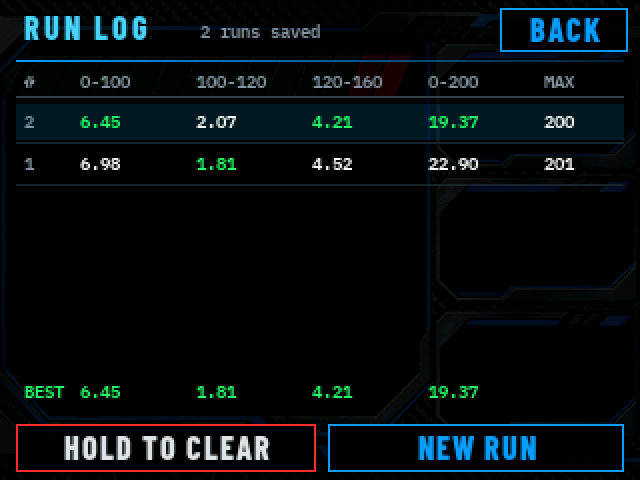
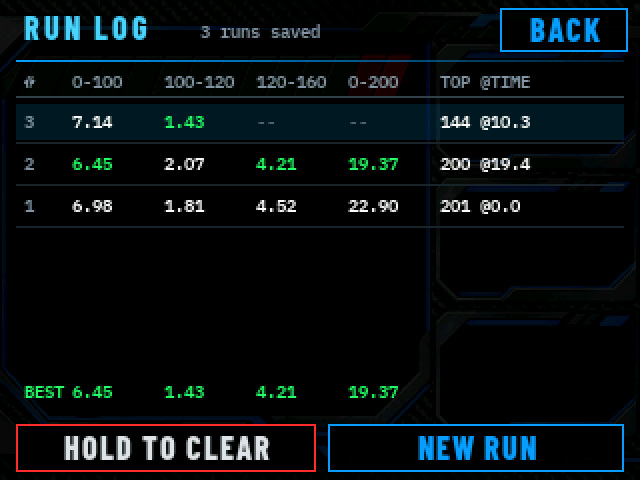
feat: timer logs every run past 30 km/h; noinvert-dim image (v1.5.0)
A run that ends before 200 km/h is saved with its top speed, the time to reach
it and the splits it passed (shown big on the SAVED screen; log column
TOP @TIME; timerlog adds to_max_s). Runs under 30 km/h are skipped. The log
record grew, so a 1.4.0 log is dropped once.
New cyd-noinvert-dim env / noinvert-dim release image (normal colours +
BRIGHTNESS); the flasher and docs list it.

diff --git a/src/ui/timer_ui.cpp b/src/ui/timer_ui.cpp
@@ -196,7 +196,7 @@ void render(const DragTimer &t, const RunLog &log, uint32_t now, bool speedValid
         case TS_RUN:      stateText = "RUN"; stateColor = T.good; break;
         case TS_FINISH:   stateText = "FINISH"; stateColor = T.good; break;
         case TS_SAVED:    stateText = "SAVED"; stateColor = T.good; break;
-        case TS_NO_RESULT:stateText = "NO 100"; stateColor = T.warning; break;
+        case TS_NO_RESULT:stateText = "TOO SHORT"; stateColor = T.warning; break;
     }
     drawStatus(stateText, stateColor);
 
@@ -212,9 +212,13 @@ void render(const DragTimer &t, const RunLog &log, uint32_t now, bool speedValid
         snprintf(label, sizeof label, "0-200 KM/H");
         bigColor = T.good;
         if (t.newBest(SEG_0_200)) tag = "NEW BEST";
-    } else if (st == TS_SAVED || st == TS_NO_RESULT) {
+    } else if (st == TS_SAVED) {                         // didn't reach 200: time to its top speed
+        fmtSec(num, sizeof num, t.toMax());
+        snprintf(label, sizeof label, "0-%d KM/H  (TOP SPEED)", (int)lroundf(t.maxKmh()));
+        bigColor = 0xffffff;
+    } else if (st == TS_NO_RESULT) {
         fmtSec(num, sizeof num, -1);
-        snprintf(label, sizeof label, "0-200 KM/H  (MAX %d)", (int)lroundf(t.maxKmh()));
+        snprintf(label, sizeof label, "UNDER 30 KM/H - NOT LOGGED");
         bigColor = C_DIM;
     } else {
         snprintf(num, sizeof num, "0.00");
@@ -289,8 +293,8 @@ static void composeLog(const RunLog &log, float clearHold) {
     button(L_BACK, "BACK", T.accent, true);
     for (int x = 8; x < 312; x++) c.blendPixel(x, 30, C(T.accent), (uint8_t)(255 - (x - 8) * 200 / 304));
 
-    static const int cx[6] = { 12, 40, 98, 156, 214, 272 };
-    static const char *const hdr[6] = { "#", "0-100", "100-120", "120-160", "0-200", "MAX" };
+    static const int cx[6] = { 12, 36, 82, 128, 174, 220 };
+    static const char *const hdr[6] = { "#", "0-100", "100-120", "120-160", "0-200", "TOP @TIME" };
     static const Seg cols[4] = { SEG_0_100, SEG_100_120, SEG_120_160, SEG_0_200 };
     for (int k = 0; k < 6; k++) c.text(font_small, cx[k], 44, hdr[k], C(C_MUTED));
     c.fillRect(8, 48, 304, 1, C(C_EDGE));
@@ -311,7 +315,7 @@ static void composeLog(const RunLog &log, float clearHold) {
             uint32_t col = v == RUN_NONE ? C_DIM : v == best[k] ? T.good : 0xffffff;
             c.text(font_small, cx[k + 1], y, buf, C(col));
         }
-        snprintf(buf, sizeof buf, "%u", rec.maxKmh);
+        snprintf(buf, sizeof buf, "%u @%u.%01u", rec.maxKmh, rec.toMaxCs / 100, rec.toMaxCs % 100 / 10);
         c.text(font_small, cx[5], y, buf, C(0xffffff));
         c.fillRect(8, y + 7, 304, 1, C(0x1c252d));
     }

diff --git a/src/ui/drag_timer.h b/src/ui/drag_timer.h
@@ -7,7 +7,9 @@
 //   STAGED -> speed leaves 0               -> RUN (start time back-estimated from the
 //                                             first two moving samples)
 //   RUN   -> 200 km/h                      -> FINISH
-//   RUN   -> speed drops 10 below its max  -> SAVED (if 0-100 was done) / NO RESULT
+//   RUN   -> speed drops 10 below its max  -> SAVED with whatever it reached (top speed +
+//                                             time to it, and every split passed); runs that
+//                                             never got past 30 km/h are not logged
 //   result -> stopped for 3 s, or again()  -> STAGED for the next run
 // Each threshold crossing is interpolated between the two samples around it, so the
 // times are better than the sample rate (OBD speed is integer km/h at ~5-10 Hz).
@@ -20,12 +22,13 @@ struct RunRecord {
     uint16_t seq;                 // run number, 1..
     uint16_t cs[SEG_COUNT];       // segment times in 1/100 s, RUN_NONE = not reached
     uint16_t maxKmh;
+    uint16_t toMaxCs;             // time from launch to the top speed, 1/100 s
 };
 
 // Newest-first ring of saved runs. Plain data: main.cpp stores it as one NVS blob.
 struct RunLog {
     static const int kMax = 20;
-    uint8_t   version = 1;
+    uint8_t   version = 2;        // bump when RunRecord changes (an old log is then dropped)
     uint8_t   count = 0;
     uint16_t  nextSeq = 1;
     RunRecord runs[kMax];
@@ -58,6 +61,7 @@ public:
     bool  newBest(int seg) const { return newBest_[seg]; }
     float speed() const { return lastV_; }
     float maxKmh() const { return maxV_; }
+    float toMax() const { return (float)((maxT_ - start_) / 1000.0); }   // s, launch -> top speed
     const RunRecord &record() const { return rec_; }
 
 private:
@@ -73,6 +77,7 @@ private:
     double   cross_[kThresholds] = {};
     bool     crossed_[kThresholds] = {};
     float    maxV_ = 0;
+    double   maxT_ = 0;                         // when the top speed was reached
     bool     newBest_[SEG_COUNT] = {};
     RunRecord rec_ = {};
 

diff --git a/src/ui/drag_timer.cpp b/src/ui/drag_timer.cpp
@@ -13,6 +13,7 @@ static const float kStillKmh   = 1.0f;     // below this the car counts as stopp
 static const float kArmMs      = 1000;     // stopped this long -> STAGED
 static const float kRearmMs    = 3000;     // after a result: stopped this long -> next run
 static const float kLiftKmh    = 10;       // speed this far under the run's max ends it
+static const float kMinLogKmh  = 30;       // a run must get past this to be logged
 
 // ---- log -------------------------------------------------------------------------------
 void RunLog::add(RunRecord r) {
@@ -95,7 +96,7 @@ float DragTimer::elapsed(uint32_t now) const {
 }
 
 TimerEvent DragTimer::end(const RunLog &log) {
-    if (!crossed_[0]) { state_ = TS_NO_RESULT; stillSince_ = -1; return TE_DISCARD; }
+    if (maxV_ < kMinLogKmh) { state_ = TS_NO_RESULT; stillSince_ = -1; return TE_DISCARD; }
     rec_ = {};
     for (int s = 0; s < SEG_COUNT; s++) {
         rec_.cs[s] = RUN_NONE;
@@ -105,6 +106,8 @@ TimerEvent DragTimer::end(const RunLog &log) {
         newBest_[s] = rec_.cs[s] < log.best(s);
     }
     rec_.maxKmh = (uint16_t)lroundf(maxV_);
+    double toMax = (maxT_ - start_) / 10.0;
+    rec_.toMaxCs = toMax < 0 ? 0 : toMax > 65000 ? 65000 : (uint16_t)lround(toMax);
     stillSince_ = -1;
     state_ = crossed_[3] ? TS_FINISH : TS_SAVED;
     return state_ == TS_FINISH ? TE_FINISH : TE_SAVED;
@@ -162,7 +165,7 @@ TimerEvent DragTimer::update(float v, uint32_t stamp, uint32_t now, const RunLog
                 crossed_[i] = true;
                 ev = TE_SPLIT;
             }
-        if (v > maxV_) maxV_ = v;
+        if (v > maxV_) { maxV_ = v; maxT_ = t; }
         if (crossed_[3]) ev = end(log);
         else if (v < maxV_ - kLiftKmh || v < kStillKmh) ev = end(log);
         break;

diff --git a/src/main.cpp b/src/main.cpp
@@ -333,14 +333,14 @@ static void printRunLog() {
     static const char *const names[SEG_COUNT] = { "0-100", "100-120", "120-160", "0-200", "160-200" };
     Serial.printf("run");
     for (const char *n : names) Serial.printf(",%s", n);
-    Serial.println(",max_kmh");
+    Serial.println(",max_kmh,to_max_s");
     for (int i = runLog.count - 1; i >= 0; i--) {             // oldest first, like a spreadsheet
         const RunRecord &r = runLog.runs[i];
         Serial.printf("%u", r.seq);
         for (int s = 0; s < SEG_COUNT; s++)
             if (r.cs[s] == RUN_NONE) Serial.print(",");
             else Serial.printf(",%u.%02u", r.cs[s] / 100, r.cs[s] % 100);
-        Serial.printf(",%u\n", r.maxKmh);
+        Serial.printf(",%u,%u.%02u\n", r.maxKmh, r.toMaxCs / 100, r.toMaxCs % 100);
     }
 }
 
@@ -637,10 +637,11 @@ void loop() {
                 saveRunLog();
                 beep(best ? 3400 : 2600, best ? 400 : 200);
                 const RunRecord &r = runLog.runs[0];
-                Serial.printf("[timer] run %u saved: 0-100 %s  0-200 %s  max %u km/h%s\n", r.seq,
+                Serial.printf("[timer] run %u saved: top %u km/h in %u.%02u s, 0-100 %s, 0-200 %s%s\n", r.seq,
+                              r.maxKmh, r.toMaxCs / 100, r.toMaxCs % 100,
                               r.cs[SEG_0_100] == RUN_NONE ? "--" : String(r.cs[SEG_0_100] / 100.0f, 2).c_str(),
                               r.cs[SEG_0_200] == RUN_NONE ? "--" : String(r.cs[SEG_0_200] / 100.0f, 2).c_str(),
-                              r.maxKmh, best ? "  NEW BEST" : "");
+                              best ? "  NEW BEST" : "");
                 break;
             }
             case TE_DISCARD: beep(900, 150); break;

diff --git a/test/test_native/test_main.cpp b/test/test_native/test_main.cpp
@@ -362,10 +362,18 @@ static void test_drag_timer_lift_and_arming() {
     // stop for 3 s: armed again
     for (int i = 0; i < 16; i++) d.feed(0);
     TEST_ASSERT_EQUAL(TS_STAGED, d.t.state());
-    // short run that never reaches 100: no result
+    // short run that never reaches 100: still logged with its top speed
     v = 0;
     while (v < 60) { v += 4; d.feed(v); }
-    TEST_ASSERT_EQUAL(TE_DISCARD, d.feed(40));
+    TEST_ASSERT_EQUAL(TE_SAVED, d.feed(40));
+    TEST_ASSERT_EQUAL(TS_SAVED, d.t.state());
+    TEST_ASSERT_EQUAL_UINT16(60, d.t.record().maxKmh);
+    TEST_ASSERT_UINT16_WITHIN(5, 300, d.t.record().toMaxCs);        // 15 samples x 0.2 s
+    TEST_ASSERT_EQUAL_UINT16(RUN_NONE, d.t.record().cs[SEG_0_100]);
+    // creeping forward under 30 km/h: not logged
+    for (int i = 0; i < 16; i++) d.feed(0);
+    d.feed(10); d.feed(20);
+    TEST_ASSERT_EQUAL(TE_DISCARD, d.feed(5));
     TEST_ASSERT_EQUAL(TS_NO_RESULT, d.t.state());
     // speed data disappears mid-run: run ends
     for (int i = 0; i < 16; i++) d.feed(0);

diff --git a/tools/flasher/redline_flasher.py b/tools/flasher/redline_flasher.py
@@ -27,6 +27,7 @@ VARIANTS = {
     "invert": "Most CYD boards (start here)",
     "noinvert": "Colours look inverted / white background with 'invert'",
     "invert-dim": "Like invert, with BRIGHTNESS control (backlight that dims)",
+    "noinvert-dim": "Like noinvert, with BRIGHTNESS control",
 }
 MODES = {
     "factory": ("0x0", "First install - erases settings and run log"),
@@ -166,7 +167,7 @@ def cli(a):
             rel = rels[pick("Version", [r["tag_name"] for r in rels])]
         asset = asset_for(rel, variant, mode)
         if not asset:
-            sys.exit(f"{rel['tag_name']} has no '{variant}' image (invert-dim exists from v1.3.0).")
+            sys.exit(f"{rel['tag_name']} has no '{variant}' image (invert-dim exists from v1.3.0, noinvert-dim from v1.4.1).")
         path = download(asset["browser_download_url"], log)
 
     print(f"\nFlash {os.path.basename(path)} to {port} at {MODES[mode][0]}.")

diff --git a/tools/host_preview/preview.cpp b/tools/host_preview/preview.cpp
@@ -95,6 +95,12 @@ static void timerFrames() {
     }
     shot("out/timer_finish.ppm");
     log.add(t.record());
+    for (int i = 0; i < 40; i++) { ms += 100; t.update(0, ms, ms, log); }   // stop: re-arms
+    v = 0;
+    while (v < 143) { ms += 100; v += 1.4f; t.update(v, ms, ms, log); }    // lift at ~143
+    ms += 100; t.update(128, ms, ms, log);
+    shot("out/timer_saved.ppm");
+    log.add(t.record());
     timer_ui::drawLog(log);
     save("out/timer_log.ppm");
 }

diff --git a/src/config.h b/src/config.h
@@ -1,5 +1,5 @@
 #pragma once
-#define REDLINE_VERSION "1.4.0"
+#define REDLINE_VERSION "1.5.0"
 // ============================================================================
 //  Smart gauge configuration — everything you'd tune for a specific car lives here.
 // ============================================================================

diff --git a/README.md b/README.md
@@ -197,9 +197,10 @@ SETUP → **TIMER** (or `timer` over serial). Works with any source that deliver
   between two speed samples.
 - Splits on the right: **0-100**, **100-120**, **120-160** (a beep at each); the big number is the running clock
   and becomes the **0-200** time at 200 km/h. Faster than your log's best = green **BEST** / **NEW BEST**.
-- The run ends at 200 km/h, or when speed drops 10 km/h under its maximum (lift / brake): it is **SAVED** with
-  whatever splits it reached (needs at least 0-100). Stop for 3 s and it re-arms for the next run.
-- **LOG**: last 20 runs (0-100, 100-120, 120-160, 0-200, max speed; 160-200 is kept too), stored on the board.
+- The run ends at 200 km/h, or when speed drops 10 km/h under its maximum (lift / brake). Every run past
+  30 km/h is **SAVED**, whatever it reached: its top speed, the time to it (shown big, e.g. "0-144 KM/H 10.30"),
+  and the splits it passed. Stop for 3 s and it re-arms for the next run.
+- **LOG**: last 20 runs (0-100, 100-120, 120-160, 0-200, top speed @ time to it; 160-200 is kept too), stored on the board.
   Hold **HOLD TO CLEAR** for ~1 s to wipe it. Over serial: `timerlog` prints CSV, `timerlog=clear`.
 - Accuracy: OBD speed is whole km/h at a few Hz (the timer screen polls speed every other request), so expect
   about ±0.2 s. A 10 Hz GPS feeding `spd=` over SERIAL is better. For fun and comparing your own runs —

diff --git a/CHANGELOG.md b/CHANGELOG.md
@@ -4,6 +4,19 @@ Ready-to-flash images for every version are on the [Releases page](https://githu
 (one per panel type, see [how to flash](docs/release-flashing.md)). Versions follow [semver](https://semver.org):
 new features bump the middle number, fixes the last one.
 
+## [1.5.0] - 2026-10-05
+
+### Changed
+- **Drag timer logs every run**, not only runs that reach 100 km/h.
+  - A run that ends early (lift or brake) is saved with its **top speed and the time to reach it**, plus any
+    splits it passed. The big number then shows that time ("0-144 KM/H (TOP SPEED) 10.30").
+  - Only runs that never got past 30 km/h are skipped.
+  - The log's last column is now TOP @TIME, and `timerlog` adds `to_max_s`.
+  - Logs saved by 1.4.0 are cleared once by this update (the record layout changed).
+
+### Added
+- **`noinvert-dim` image** (`cyd-noinvert-dim` env): normal-colour panel with BRIGHTNESS. The flasher lists it.
+
 ## [1.4.0] - 2026-10-05
 
 ### Added

diff --git a/docs/release-flashing.md b/docs/release-flashing.md
@@ -8,6 +8,7 @@
 | `…-invert-factory.bin` | **Start here.** Most CYD boards. ส่วนใหญ่ใช้ตัวนี้ |
 | `…-noinvert-factory.bin` | Colours look inverted (white background) with the file above. จอสีกลับด้าน พื้นขาว |
 | `…-invert-dim-factory.bin` | Same as *invert*, with BRIGHTNESS control, for boards whose backlight dims (if the screen goes black at 50 %, use *invert*). บอร์ดที่หรี่ไฟจอได้ |
+| `…-noinvert-dim-factory.bin` | Same as *noinvert*, with BRIGHTNESS control. จอสีปกติ + หรี่ไฟจอได้ |
 | `…-update.bin` | Upgrading a board that already runs REDLINE: keeps settings and the run log. อัปเดตโดยไม่ล้างค่าที่ตั้งไว้ |
 
 ## How to flash / วิธีแฟลช (no compiling needed / ไม่ต้องคอมไพล์)
